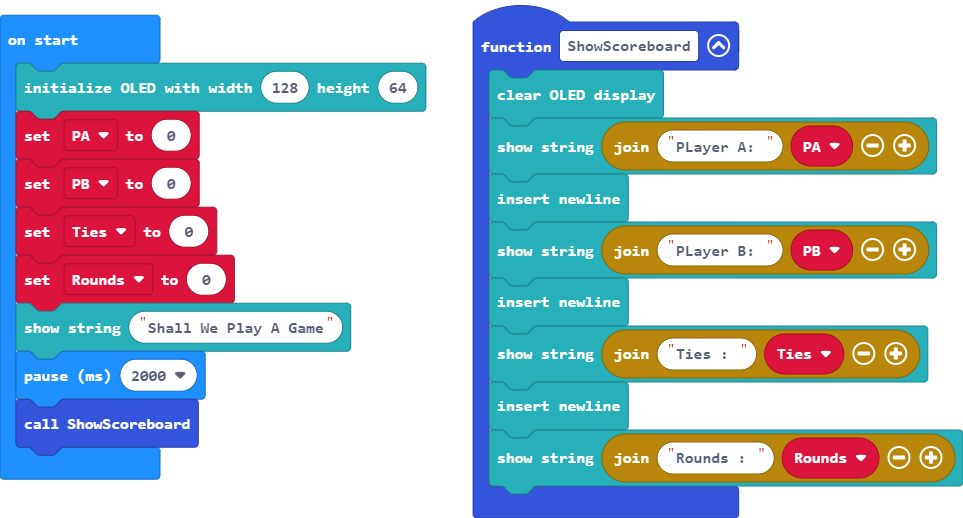
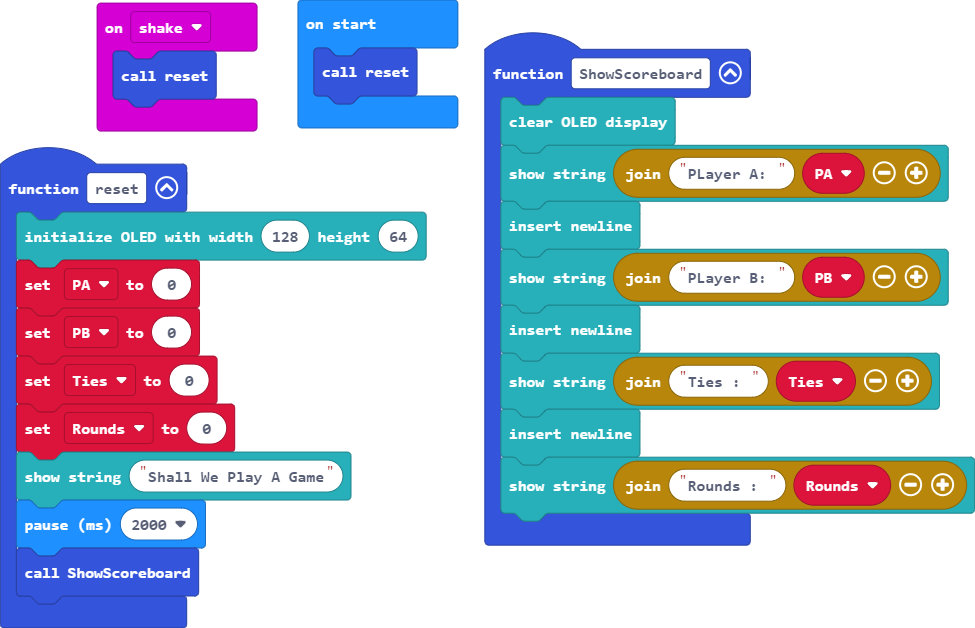
Update main.blocks, main.ts

diff --git a/main.ts b/main.ts
@@ -8,15 +8,21 @@ function ShowScoreboard () {
     OLED.newLine()
     OLED.writeStringNewLine("Rounds : " + Rounds)
 }
+input.onGesture(Gesture.Shake, function () {
+    reset()
+})
+function reset () {
+    OLED.init(128, 64)
+    PA = 0
+    PB = 0
+    Ties = 0
+    Rounds = 0
+    OLED.writeStringNewLine("Shall We Play A Game")
+    basic.pause(2000)
+    ShowScoreboard()
+}
 let Rounds = 0
 let Ties = 0
 let PB = 0
 let PA = 0
-OLED.init(128, 64)
-PA = 0
-PB = 0
-Ties = 0
-Rounds = 0
-OLED.writeStringNewLine("Shall We Play A Game")
-basic.pause(2000)
-ShowScoreboard()
+reset()
